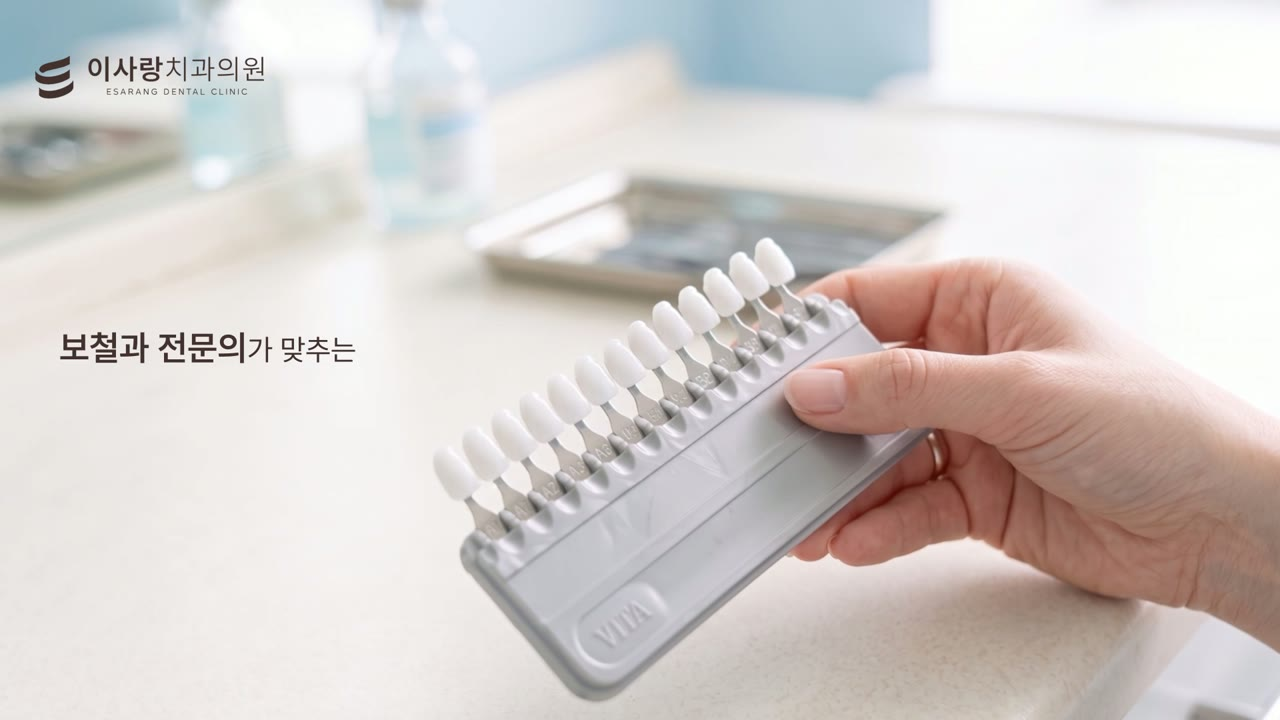
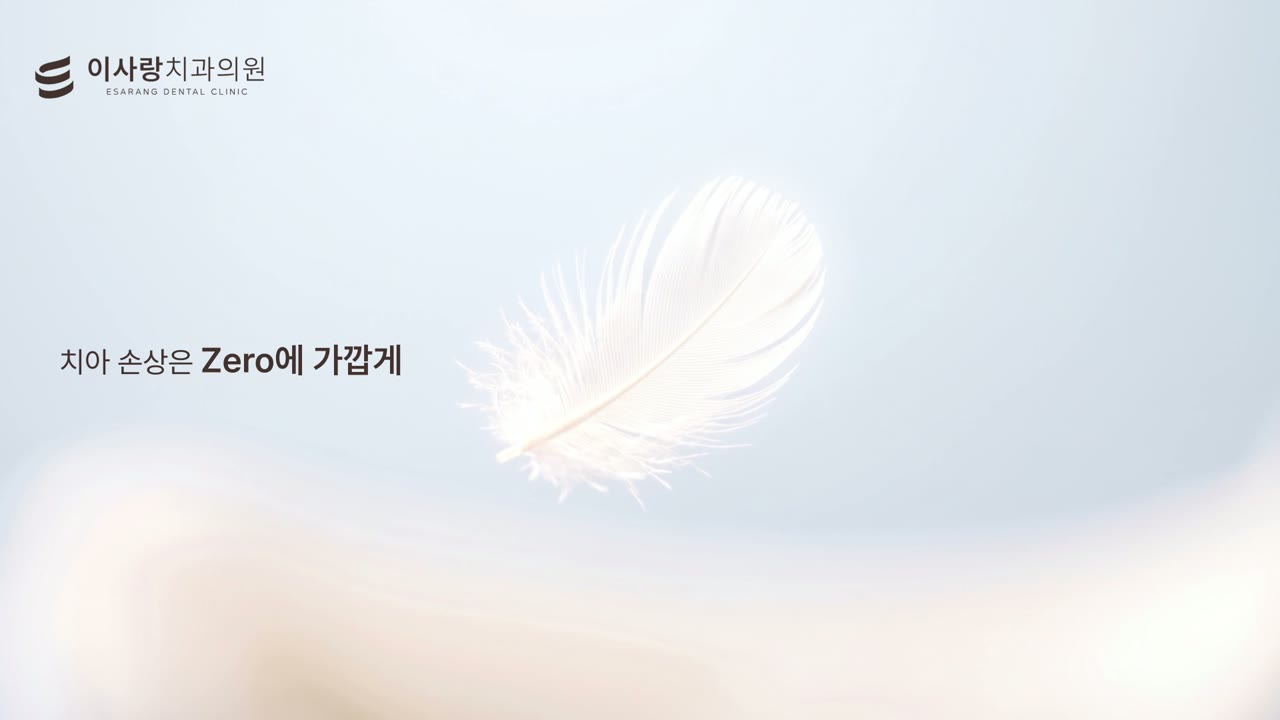
이사랑치과 CF 최종본(3.0)으로 교체 + 카피 라인 갱신
- esarang-cf.mp4/포스터를 3.0 Vf 최종본으로 재인코딩 (동일 파일명 덮어쓰기)
- 최종본 컨셉 반영: 치아 손상은 Zero / 전문의가 만드는 나만의 톤 / Veneer-Zero
- 캐시버스터 v=20260719

diff --git a/ai-image.html b/ai-image.html
@@ -8,7 +8,7 @@
   <link rel="preconnect" href="https://fonts.gstatic.com" crossorigin>
   <link href="https://fonts.googleapis.com/css2?family=Cormorant+Garamond:ital,wght@0,400;0,500;1,400;1,500&family=Inter:wght@300;400;500&family=IBM+Plex+Mono:wght@400;500&display=swap" rel="stylesheet">
   <link rel="stylesheet" as="style" crossorigin href="https://cdn.jsdelivr.net/gh/orioncactus/pretendard@v1.3.9/dist/web/variable/pretendardvariable-dynamic-subset.min.css">
-  <link rel="stylesheet" href="css/style.css?v=20260717d">
+  <link rel="stylesheet" href="css/style.css?v=20260719">
 </head>
 <body>
 
@@ -54,7 +54,7 @@
     <span class="f-copy">© 2026 GUNYOONG KIM. All rights reserved.</span>
   </footer>
 
-  <script src="js/data.js?v=20260717d"></script>
-  <script src="js/main.js?v=20260717d"></script>
+  <script src="js/data.js?v=20260719"></script>
+  <script src="js/main.js?v=20260719"></script>
 </body>
 </html>

diff --git a/ai-video.html b/ai-video.html
@@ -8,7 +8,7 @@
   <link rel="preconnect" href="https://fonts.gstatic.com" crossorigin>
   <link href="https://fonts.googleapis.com/css2?family=Cormorant+Garamond:ital,wght@0,400;0,500;1,400;1,500&family=Inter:wght@300;400;500&family=IBM+Plex+Mono:wght@400;500&display=swap" rel="stylesheet">
   <link rel="stylesheet" as="style" crossorigin href="https://cdn.jsdelivr.net/gh/orioncactus/pretendard@v1.3.9/dist/web/variable/pretendardvariable-dynamic-subset.min.css">
-  <link rel="stylesheet" href="css/style.css?v=20260717d">
+  <link rel="stylesheet" href="css/style.css?v=20260719">
 </head>
 <body>
 
@@ -54,7 +54,7 @@
     <span class="f-copy">© 2026 GUNYOONG KIM. All rights reserved.</span>
   </footer>
 
-  <script src="js/data.js?v=20260717d"></script>
-  <script src="js/main.js?v=20260717d"></script>
+  <script src="js/data.js?v=20260719"></script>
+  <script src="js/main.js?v=20260719"></script>
 </body>
 </html>

diff --git a/contact.html b/contact.html
@@ -8,7 +8,7 @@
   <link rel="preconnect" href="https://fonts.gstatic.com" crossorigin>
   <link href="https://fonts.googleapis.com/css2?family=Cormorant+Garamond:ital,wght@0,400;0,500;1,400;1,500&family=Inter:wght@300;400;500&family=IBM+Plex+Mono:wght@400;500&display=swap" rel="stylesheet">
   <link rel="stylesheet" as="style" crossorigin href="https://cdn.jsdelivr.net/gh/orioncactus/pretendard@v1.3.9/dist/web/variable/pretendardvariable-dynamic-subset.min.css">
-  <link rel="stylesheet" href="css/style.css?v=20260717d">
+  <link rel="stylesheet" href="css/style.css?v=20260719">
 </head>
 <body>
 
@@ -66,7 +66,7 @@
     <span class="f-copy">© 2026 GUNYOONG KIM. All rights reserved.</span>
   </footer>
 
-  <script src="js/data.js?v=20260717d"></script>
-  <script src="js/main.js?v=20260717d"></script>
+  <script src="js/data.js?v=20260719"></script>
+  <script src="js/main.js?v=20260719"></script>
 </body>
 </html>

diff --git a/index.html b/index.html
@@ -9,7 +9,7 @@
   <link rel="preconnect" href="https://fonts.gstatic.com" crossorigin>
   <link href="https://fonts.googleapis.com/css2?family=Cormorant+Garamond:ital,wght@0,400;0,500;1,400;1,500&family=Inter:wght@300;400;500&family=IBM+Plex+Mono:wght@400;500&display=swap" rel="stylesheet">
   <link rel="stylesheet" as="style" crossorigin href="https://cdn.jsdelivr.net/gh/orioncactus/pretendard@v1.3.9/dist/web/variable/pretendardvariable-dynamic-subset.min.css">
-  <link rel="stylesheet" href="css/style.css?v=20260717d">
+  <link rel="stylesheet" href="css/style.css?v=20260719">
 </head>
 <body>
 
@@ -49,7 +49,7 @@
 
   </main>
 
-  <script src="js/data.js?v=20260717d"></script>
-  <script src="js/main.js?v=20260717d"></script>
+  <script src="js/data.js?v=20260719"></script>
+  <script src="js/main.js?v=20260719"></script>
 </body>
 </html>

diff --git a/video-editing.html b/video-editing.html
@@ -8,7 +8,7 @@
   <link rel="preconnect" href="https://fonts.gstatic.com" crossorigin>
   <link href="https://fonts.googleapis.com/css2?family=Cormorant+Garamond:ital,wght@0,400;0,500;1,400;1,500&family=Inter:wght@300;400;500&family=IBM+Plex+Mono:wght@400;500&display=swap" rel="stylesheet">
   <link rel="stylesheet" as="style" crossorigin href="https://cdn.jsdelivr.net/gh/orioncactus/pretendard@v1.3.9/dist/web/variable/pretendardvariable-dynamic-subset.min.css">
-  <link rel="stylesheet" href="css/style.css?v=20260717d">
+  <link rel="stylesheet" href="css/style.css?v=20260719">
 </head>
 <body>
 
@@ -54,7 +54,7 @@
     <span class="f-copy">© 2026 GUNYOONG KIM. All rights reserved.</span>
   </footer>
 
-  <script src="js/data.js?v=20260717d"></script>
-  <script src="js/main.js?v=20260717d"></script>
+  <script src="js/data.js?v=20260719"></script>
+  <script src="js/main.js?v=20260719"></script>
 </body>
 </html>

diff --git a/js/data.js b/js/data.js
@@ -59,8 +59,8 @@ const WORKS = {
       feature: true,
       meta: "AI Generated Commercial · 16:9 · 21s",
       bg: "#223038",
-      desc: "'자연스러운 미소'를 주제로 한 치과 라미네이트 브랜드 필름. 모델 클로즈업부터 셰이드 매칭 디테일, 클리닉 공간까지 AI로 연출했습니다.",
-      lines: ["자연스러운, 미소", "보철과 전문의가 맞추는", "공덕역, 가장 자연스러운 라미네이트"],
+      desc: "'치아를 지키는 미니멀리즘'을 주제로 한 치과 라미네이트 브랜드 필름. 미러 씬, 깃털 모티프, 전문의 시술 디테일까지 AI로 연출했습니다.",
+      lines: ["치아 손상은 Zero에 가깝게", "전문의가 만드는 정교한 나만의 톤", "치아를 지키는 미니멀리즘, Veneer-Zero"],
     },
     {
       src: "assets/ai-video/innerglow-cf.mp4",